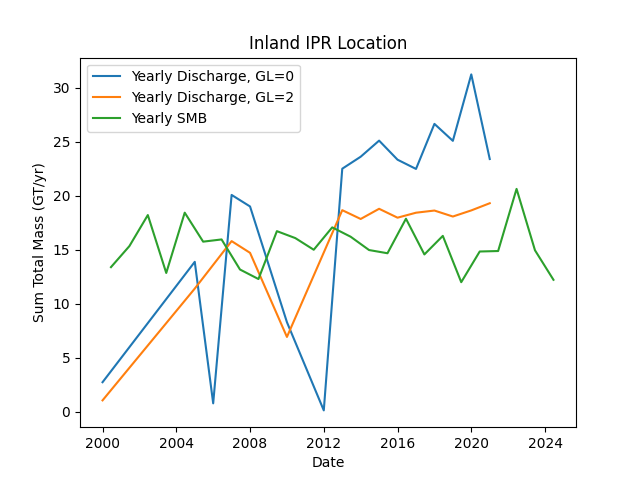
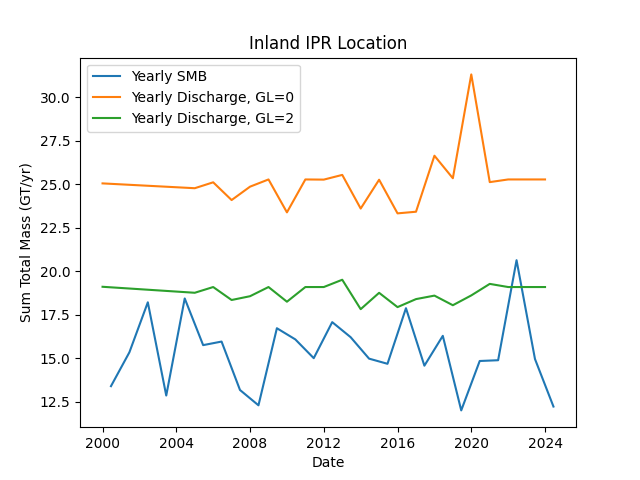
infill with average velocity when velocity not available for mb calc

diff --git a/src/pointwise.py b/src/pointwise.py
@@ -767,15 +767,17 @@ class FlowProfile(Pointwize):
         return final_elevations
 
 
-    def invert_equilibrium(self, elevations, FAC=20, sea_level_elevation=SEA_LEVEL_ELEVATION, from_geoid=False, to_geoid=True):
+    def invert_equilibrium(self, surface_elevation, IPR_thickness, FAC=20, sea_level_elevation=SEA_LEVEL_ELEVATION, from_geoid=False, to_geoid=True):
         '''
         Returns the estimated height of the ice at equilibrium based on the elevation of the ice bottom 
 
 
         Parameters
         ----------
-        elevations : List[Float]
-            List of ice bottom elevations
+        surface_elevation : List[Float]
+            List of ice surface elevations
+        IPR_thickness : List[Float]
+            Assumed thickness of ice at location
         FAC : Float | Integer | List[Float | Integer]
             Charactaristic FAC value or array of FAC values with same length as elevations
         sea_level_elevation : Float | Integer | List[Float | Integer]
@@ -793,6 +795,8 @@ class FlowProfile(Pointwize):
 
         if type(FAC) == list:
             FAC = np.array(FAC)
+
+        elevations = surface_elevation - IPR_thickness
 
         if not from_geoid:
             geoid_elevation = elevations - sea_level_elevation # from WSG-84 to relative local sea level
@@ -867,10 +871,10 @@ class FlowProfile(Pointwize):
             rema_vals['vals'] -= sea_level['vals']
         ax.plot(rema_vals['dists'], rema_vals['vals'], ls='dotted', marker= 'None', label='REMA Surface')
         
-        '''
+        
         # ICESAT2 POINTS (take longer to plot)
 
-        general_sea_level = sea_level['vals'].mean()
+        '''general_sea_level = sea_level['vals'].mean()
         for x in self.dates:
             label = self.get_data(x)
             label = self.create_date_range_label(label)
@@ -907,22 +911,49 @@ class FlowProfile(Pointwize):
         out = out.merge(rema_vals, on='dists', how='inner', suffixes=('_sea_level', '_rema'))
 
         out_thick_col = 'THICK'
+        out_surface_col = 'vals_rema'
 
 
-        IPR_mirror1 = self.invert_equilibrium(out['vals_rema'] - out[out_thick_col], FAC1, sea_level_elevation=out['vals_sea_level'], from_geoid=True, to_geoid=geoid)
-        IPR_mirror2 = self.invert_equilibrium(out['vals_rema'] - out[out_thick_col], FAC2, sea_level_elevation=out['vals_sea_level'], from_geoid=True, to_geoid=geoid)
+        IPR_mirror1 = self.invert_equilibrium(out[out_surface_col], cresis_H_to_better_H(out[out_thick_col], FAC1), FAC1, sea_level_elevation=out['vals_sea_level'], from_geoid=True, to_geoid=geoid)
+        IPR_mirror2 = self.invert_equilibrium(out[out_surface_col],  cresis_H_to_better_H(out[out_thick_col], FAC2), FAC2, sea_level_elevation=out['vals_sea_level'], from_geoid=True, to_geoid=geoid)
         
         print(FAC1)
         print(FAC2)
         
-        IPR_mirror2 = list(itertools.chain.from_iterable(IPR_mirror2))
-        IPR_mirror1 = list(itertools.chain.from_iterable(IPR_mirror1))
+        try:
+            IPR_mirror2 = list(itertools.chain.from_iterable(IPR_mirror2))
+        except:
+            pass
+        try:
+            IPR_mirror1 = list(itertools.chain.from_iterable(IPR_mirror1))
+        except:
+            pass
+        
         
         ax.fill_between(out['dist_from_grndline'], IPR_mirror1, IPR_mirror2, color='lightgray', alpha=0.5, label='IPR Floatation Height Range (' +str(round(FAC1)) + '-' + str(round(FAC2)) +" FAC)")
         
+        out_surface_col = 'atm_height'
+        IPR_mirror1 = self.invert_equilibrium(out[out_surface_col], cresis_H_to_better_H(out[out_thick_col], FAC1), FAC1, sea_level_elevation=out['vals_sea_level'], from_geoid=True, to_geoid=geoid)
+        IPR_mirror2 = self.invert_equilibrium(out[out_surface_col],  cresis_H_to_better_H(out[out_thick_col], FAC2), FAC2, sea_level_elevation=out['vals_sea_level'], from_geoid=True, to_geoid=geoid)
+        
+        print(FAC1)
+        print(FAC2)
+        
+        try:
+            IPR_mirror2 = list(itertools.chain.from_iterable(IPR_mirror2))
+        except:
+            pass
+        try:
+            IPR_mirror1 = list(itertools.chain.from_iterable(IPR_mirror1))
+        except:
+            pass
+        
+        
+        ax.fill_between(out['dist_from_grndline'], IPR_mirror1, IPR_mirror2, color='red', alpha=0.5, label='IPR Floatation Height Range (' +str(round(FAC1)) + '-' + str(round(FAC2)) +" FAC)")
+        
         IPR_mirror_med = out['atm_height']
         IPR_mirror_med_2 = out['guess_surface']
-        #ax.plot(out['dist_from_grndline'], IPR_mirror_med, color='darkgray', label='atm_height')
+        ax.plot(out['dist_from_grndline'], IPR_mirror_med, color='darkgray', label='ATM Height')
         #ax.plot(out['dist_from_grndline'], IPR_mirror_med_2, color='lightgray', label='guess_surface')
 
 
@@ -1217,9 +1248,73 @@ class PolyLine(PointSeries):
         return np.array(self.points), np.array(self.labels)
 
 
+class PolyFlowHybridLine(PointSeries) :
+    def __init__(self, xlims, ylims, flags, starting_poses, pt_label, step_dist = 50, fname="POLYLINE_TEST"):
+        super().__init__(xlims, ylims, flags, starting_poses)
+
+        self.step_dist = step_dist
+        self.main_pts = starting_poses
+        self.pt_label = pt_label
+        self.points = []
+        self.labels = []
+
+        temp = []
+        for p in self.main_pts:
+            temp.append(Point(p[1], p[0]))
+        df_ref = pd.DataFrame({'geometry':temp, 'labels':self.pt_label})
+        df_ref = gpd.GeoDataFrame(df_ref, geometry=temp, crs='EPSG:3031')
+        df_ref.to_file(fname + '.gpkg', driver="GPKG")
+
+    def distance(self, pos1, pos2):
+        return overall_velocity(pos1[0] - pos2[0], pos1[1] - pos2[1])
+
+    def interpolation(self, pos1, pos2, perc):
+        pos = []
+        for x in range(len(pos1)):
+
+            cur = pos1[x] + ((pos2[x] - pos1[x]) * perc)
+
+            pos.append(cur)
+
+        return pos
+    
+    
+    def two_point_array(self, p1, p2, cur_dist=0):
+        total_dist = self.distance(p1, p2)
+        percs = self.step_dist / total_dist
+        cur = -percs
+
+        while cur <= 1:
+            cur += percs
+            self.points.append(self.interpolation(p1, p2, cur))
+            self.labels.append((cur * total_dist) + cur_dist)
+
+        return total_dist
+
+
+    def get_points(self, overlap_ds=False, include_all=True, index='index'):
+        
+        cur_dist = 0
+        for x in range(1, len(self.main_pts)):
+            cur_dist += self.two_point_array(self.main_pts[x-1], self.main_pts[x], cur_dist=cur_dist)
+
+        if include_all:
+            points = []
+            for p in self.points:
+                points.append(Point(p[1], p[0]))
+            gpd_df = gpd.GeoDataFrame({'dist_from_grndline': self.labels, 'vel_dates': self.labels}, geometry=points, crs='EPSG:3031')
+            gpd_df.to_file('POLYLINE_TEST.gpkg', driver='GPKG')
+            return np.array(self.points), np.array(self.labels), gpd_df
+
+        return np.array(self.points), np.array(self.labels)
+
+
+
 class StreamFlow(PointSeries):
     def __init__(self, xlims, ylims, flags, starting_pos, step_dist, step_num, date_steps = STREAM_PLOT_STEPS, max_dist = 500, label_type = 'dist', cmap='managua'):
         f = flags.copy()
+
+
         f.add('-itslive')
         self.fmx = VelocityManager(xlims, ylims, f, 'velx')
         self.fmy = VelocityManager(xlims, ylims, f, 'vely')

diff --git a/src/utils.py b/src/utils.py
@@ -1,5 +1,6 @@
 from flags import *
 import time as t
+import numpy as np
 from numpy import abs # type: ignore
 from matplotlib.colors import ListedColormap
 
@@ -111,7 +112,7 @@ GL_PROFILE_LOCATION = {
             'fname': 'grounding_line_profile',
             'type': 'fl',
             'point': [-1806893.758, 1855363.783],
-            'point_range': [-10, 40],
+            'point_range': [-10, 10],
             'point_spacing': 400
         },]
         }
@@ -264,8 +265,18 @@ BEDMAP_FILE = INPUT + 'bed/bedmachine_bed.tif'
 
 VEL_TIF_FORMAT = TIF_LOCATION + "{0}_{1}_v.tif" # 0=year, 1=direction
 AVG_VEL_TIF_FORMAT = "shapefiles/velocities_measures.tif" # 0=year, 1=direction
-MEASURES_X_VELOCITY = INPUT + "velocities/measures_x_vel.tif"
-MEASURES_Y_VELOCITY = INPUT + "velocities/measures_y_vel.tif"
+
+COMPOSITE_VEL = {
+    'ItsLive': {
+        'x': INPUT + "velocities/itslive_x_vel.tif",
+        'y': INPUT + "velocities/itslive_y_vel.tif"
+    },
+    'Measures': {
+        'x': INPUT + "velocities/measures_x_vel.tif",
+        'y': INPUT + "velocities/measures_y_vel.tif"
+    }
+}
+
 
 REMA_TILE_DEM = REMA_RAW_LOCATION + "tiles/12_49_10m_v2.0_dem.tif"
 SEA_LEVEL_TIF = ELEVATION_H5_LOCATION + 'us_nga_egm2008_1.tif' #'height_anomaly_XGM2019e_2159_f493ce77ef4ef22fc1824b24391b107cb968c6f507d2ecdb42fbb391390fc0a7.tiff' #
@@ -327,6 +338,46 @@ REMA_BACKGROUND_LEVEL = 0
 
 
 OPACITY_CMAP = [0,0,0]
+
+
+# Speed of light
+c = 3.0e8
+
+# Refractive index of ice
+ni = 1.78
+
+# These are numbers used by CReSIS to report ice thickness
+e_i = 3.15
+v_i = c / np.sqrt(e_i)
+
+
+def smooth(x, window_len=11):
+    """Hanning  window smoothing"""
+    s = np.r_[x[window_len - 1:0:-1], x, x[-1:-window_len:-1]]
+    w = np.hanning(window_len)
+    y = np.convolve(w / w.sum(), s, mode='valid')
+    return y[np.floor(window_len / 2.0):len(y) - np.floor(window_len / 2.0)]
+
+
+def cresis_H_to_t(H):
+    """Back out the twtt from CReSIS's stated ice thickness"""
+    t = 2 * H / v_i
+    return t
+
+
+def radar_t_to_H(t, firnair):
+    """Total ice thickness in terms of measured time
+    
+    From Jenkins and Doake, p798, after eq 5"""
+    H = (1 / ni) * ((t * c / 2) + (ni - 1) * firnair)
+    return H
+
+
+def cresis_H_to_better_H(H, FAC):
+    """Account for FAC rather than using a single dielectric constant"""
+    twtt = cresis_H_to_t(H)
+    return radar_t_to_H(twtt, FAC)
+
 
 def pointify(row):
     #Dr. Lilien code

diff --git a/src/main.py b/src/main.py
@@ -165,13 +165,13 @@ class main():
                 t.plot_diff(x['fname'])
 
         if self.flags.chart_type() == 'mb':
-            mb_manager = MBCalculation(self.xlim, self.ylim, self.flags,method='flux')
+            mb_manager = MBCalculation(self.xlim, self.ylim, self.flags, method='flux')
 
             mb_manager.plot_MB(ids=[0, 2], title='Inland IPR Location')
-            #mb_manager = MBCalculation(self.xlim, self.ylim, self.flags,method='gl')
-            #mb_manager.plot_MB()
-            #mb_manager.plot_MB(ids=[1, 3, 5], title='Inland GL Locations')
-            #mb_manager.plot_MB(ids=[2, 4], title='Offshore GL Locations')
+            mb_manager = MBCalculation(self.xlim, self.ylim, self.flags, method='gl')
+            mb_manager.plot_MB()
+            mb_manager.plot_MB(ids=[1, 3, 5], title='Inland GL Locations')
+            mb_manager.plot_MB(ids=[2, 4], title='Offshore GL Locations')
 
         if self.flags.chart_type() == 'elev-error':
             self.get_elevation_error()

diff --git a/src/file_manager.py b/src/file_manager.py
@@ -906,7 +906,7 @@ class AvgXVelManager(FileManager):
             data = self.data
         else:
             data = data_override
-        return [MEASURES_X_VELOCITY], [], []
+        return [COMPOSITE_VEL[self.flags.sources_v()[0]]['x']], [], []
 
 
 class AvgYVelManager(FileManager):
@@ -928,7 +928,7 @@ class AvgYVelManager(FileManager):
             data = self.data
         else:
             data = data_override
-        return [MEASURES_Y_VELOCITY], [], []
+        return [COMPOSITE_VEL[self.flags.sources_v()[0]]['y']], [], []
 
 
 class GeoidManager(FileManager):

diff --git a/src/plotting.py b/src/plotting.py
@@ -518,7 +518,7 @@ class Plotting:
             ax1.plot(dist, elevation, marker='o', linestyle='None', label=label, color=sm.to_rgba(color_key))
 
         padding = (max(elevation) - min(elevation)) * 0.3
-        padding_x = (max(elevation) - min(elevation)) * 0.15
+        padding_x = (max(elevation) - min(elevation)) * 0.3
         if change_lims:
             ax1.set_ylim(min(elevation) - padding, max(elevation) + padding)
             ax1.set_xlim(min(dist) - padding_x, max(dist) + padding_x)

diff --git a/src/mb.py b/src/mb.py
@@ -97,6 +97,7 @@ class MBCalculation():
 
         smb_df = self.SMB.get_surface_balance_df()
 
+        plt.plot(smb_df['dt'], smb_df['smb'], label='Yearly SMB')
 
         for id in ids:
             self.vels = []
@@ -133,7 +134,6 @@ class MBCalculation():
 
 
 
-        plt.plot(smb_df['dt'], smb_df['smb'], label='Yearly SMB')
         plt.legend()
         plt.xlabel('Date')
         plt.ylabel('Sum Total Mass (GT/yr)')
